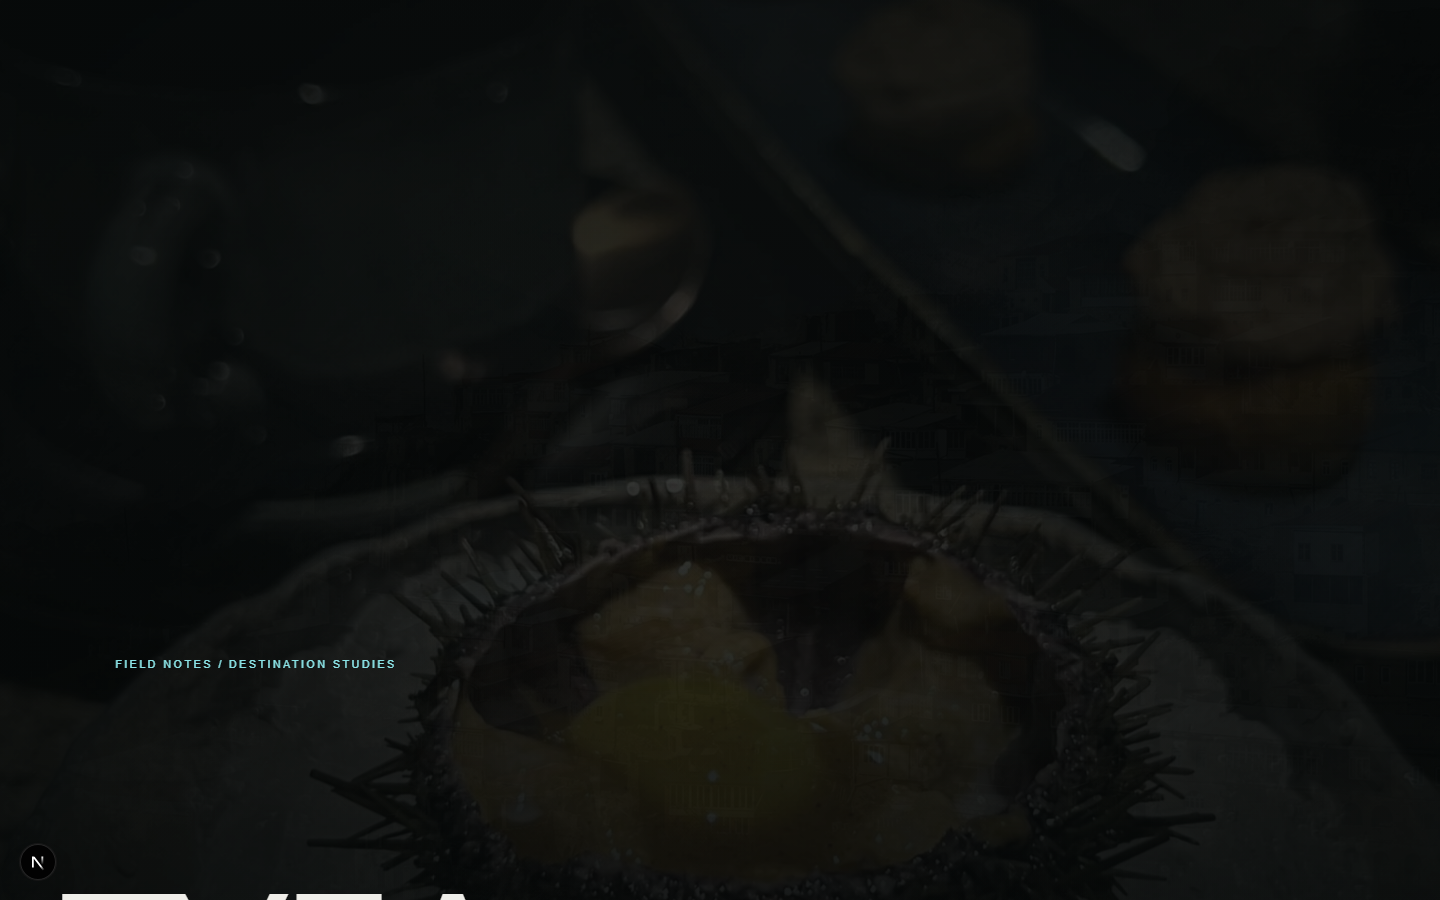
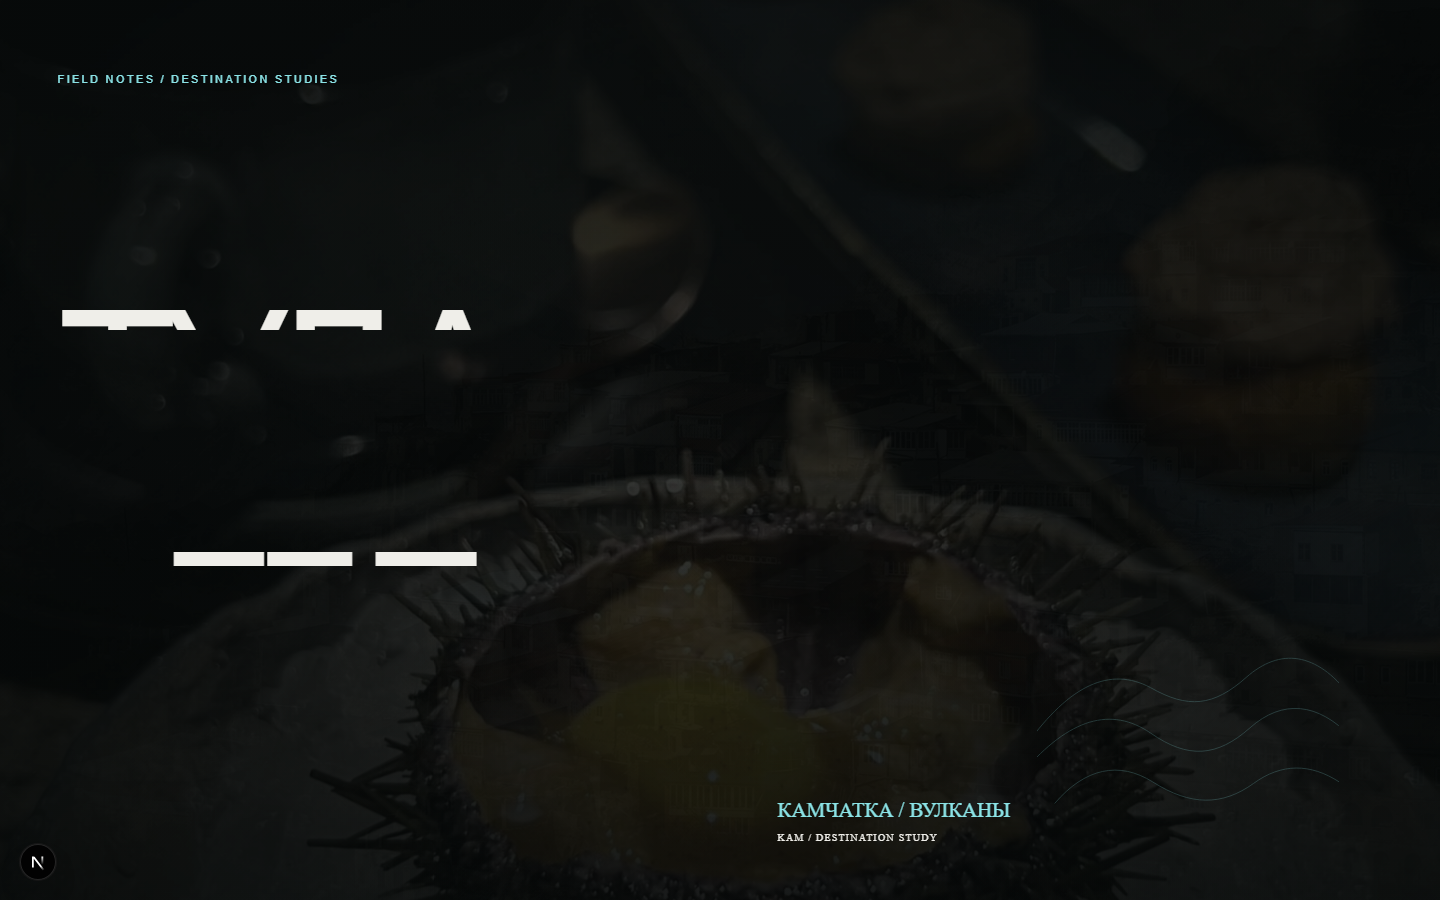
fix: preserve Story headline through hold phase

diff --git a/src/app/globals.css b/src/app/globals.css
@@ -234,7 +234,7 @@ body[data-audit="story"] .storyStage{position:absolute;inset:0;width:100%;height
  --type-label:.68rem;
  --type-micro:.56rem;
 }
-body{font-family:var(--font-ui)}
+body{font-family:var(--font-ui);overflow-x:clip}
 .logo,.hero h1,.sectionHead h2,.storyStage h2,.format h2,.about h2,.editorial h2,.contact h2,.principles span,.aboutStat strong,.editorialGrid h3{font-family:var(--font-display)}
 h1 i,h2 i,.editorialInterruption i{font-family:var(--font-editorial);font-weight:400}
 .eyebrow,.header,.heroBottom,.sideNav,.cardBody,.cardIndex,.archive figcaption,.conceptBadge,.languageSwitch,form,footer{font-family:var(--font-ui)}
@@ -260,7 +260,7 @@ h1 i,h2 i,.editorialInterruption i{font-family:var(--font-editorial);font-weight
 .cardGlyph{position:absolute;z-index:2;right:-.07em;top:10%;font:500 clamp(4.8rem,8vw,9rem)/.8 var(--font-display);letter-spacing:-.12em;color:transparent;-webkit-text-stroke:1px #ffffff8a;opacity:.38;writing-mode:vertical-rl;pointer-events:none}
 .cardBody>span{letter-spacing:.11em}
 .storyContours{position:absolute;z-index:4;right:7vw;bottom:9vh;width:21vw}
-.story{overflow:clip}
+.story{display:block;overflow:visible}
 .storyStage{overflow:visible}
 .storyHeadline{position:relative;z-index:5;width:92vw;overflow:visible;will-change:transform,opacity}
 .storyHeadline h2{width:100%;font-size:clamp(5rem,10vw,10.8rem)}

diff --git a/tests/e2e/story-motion.spec.ts b/tests/e2e/story-motion.spec.ts
@@ -23,6 +23,7 @@ for(const locale of ["ru","en"] as const){
     test(`${locale} Story hold remains vertically readable at ${viewport.width}`,async({page})=>{
       await page.setViewportSize(viewport);
       await page.goto(`/${locale}`,{waitUntil:"load"});
+      let holdReference:{top:number;bottom:number}[]|undefined;
       for(const progress of [.35,.5,.65]){
         await seekStory(page,progress);
         const boxes=await page.locator(".storyLine").evaluateAll(lines=>lines.map(line=>{
@@ -33,6 +34,11 @@ for(const locale of ["ru","en"] as const){
           expect(box.top).toBeGreaterThanOrEqual(viewport.height*.04);
           expect(box.bottom).toBeLessThanOrEqual(viewport.height*.96);
         }
+        if(!holdReference) holdReference=boxes;
+        else boxes.forEach((box,index)=>{
+          expect(Math.abs(box.top-holdReference![index].top)).toBeLessThan(3);
+          expect(Math.abs(box.bottom-holdReference![index].bottom)).toBeLessThan(3);
+        });
       }
     });
   }
